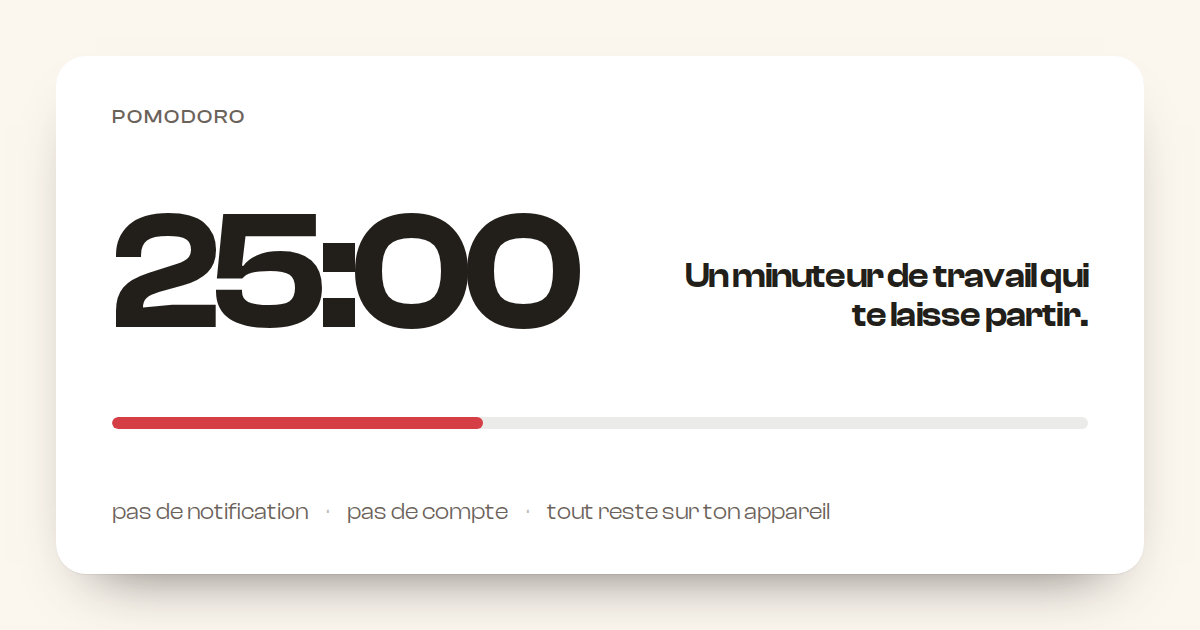
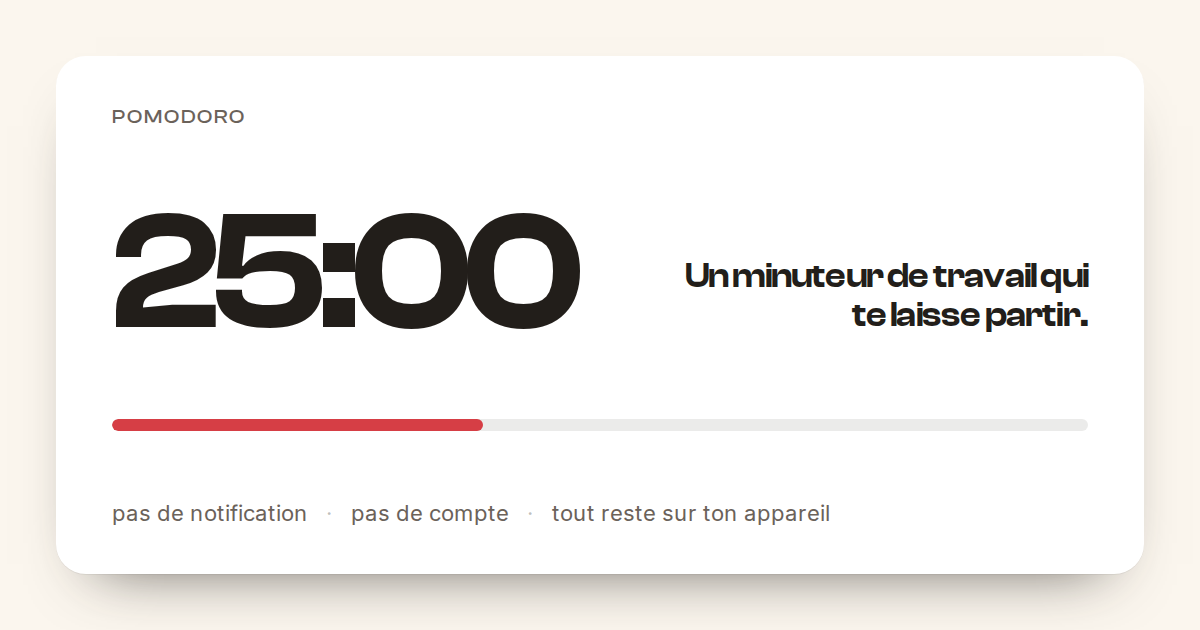
refactor(type): give the app a text face, and leave Clash the display work
Clash Display was doing every job: the clock, the titles, the paragraphs, the
13px hints. It is drawn for large sizes — tight spacing, closed apertures — and
below about 15px that costs legibility for nothing, which is most of what the
settings, the method page and the stats card are made of.

Two tokens now. `--font-display` (Clash) keeps the clock and its ghosts, the
screen titles, the intro lead, the wordmark and the labels on committing actions:
short strings, never under 14px, where the face is at its best. `--font-sans`
(Inter) takes everything read as a sentence or scanned as a list — body copy,
hints, list rows, stepper values, citations, and the stats card end to end, whose
two headings are sentences at 16–22px rather than display sizes. Quiet actions go
with the text: they are small and often a whole sentence.

Inter ships as one variable woff2, subset to the same characters as Clash plus the
≈, ✓ and arrows the copy uses, and to the 400–600 weights the interface asks for:
25 KB. Clash lost the 400 weight nothing calls for any more. Type payload 42 KB
across three files, up from 24 KB — the cost is stated in the README.

The link card follows the same split, and the legal page now names both licences.

Claude-Session: https://claude.ai/code/session_01WURgesoKEcLdKM51PxyYEe

Changed region(s): [[0.0925, 0.7841, 0.4317, 0.8444], [0.4625, 0.7841, 0.7092, 0.8444], [0.0925, 0.6635, 0.4008, 0.6937]]

diff --git a/src/styles/fonts.css b/src/styles/fonts.css
@@ -1,13 +1,6 @@
-@font-face {
-  font-family: 'Clash Display';
-  src: url('/fonts/clash-display-400.woff2') format('woff2');
-  font-weight: 400;
-  font-style: normal;
-  font-display: swap;
-  unicode-range:
-    U+0000-00FF, U+0131, U+0152-0153, U+02BB-02BC, U+02C6, U+02DA, U+02DC, U+2000-206F, U+2074,
-    U+20AC, U+2122, U+2191, U+2193, U+2212, U+2215, U+FEFF, U+FFFD;
-}
+/* Two voices. Clash Display is drawn for large sizes — it carries the clock, the
+   titles and the action labels. Inter is drawn for small ones and carries everything
+   that is read as a sentence or scanned as a list. */
 
 @font-face {
   font-family: 'Clash Display';
@@ -29,4 +22,14 @@
   unicode-range:
     U+0000-00FF, U+0131, U+0152-0153, U+02BB-02BC, U+02C6, U+02DA, U+02DC, U+2000-206F, U+2074,
     U+20AC, U+2122, U+2191, U+2193, U+2212, U+2215, U+FEFF, U+FFFD;
+}
+
+/* One file, weights 400 to 600: the only range the interface asks for. Subset to the
+   same characters as Clash, plus ≈, ✓ and the arrows the copy uses. */
+@font-face {
+  font-family: 'Inter Variable';
+  src: url('/fonts/inter-variable.woff2') format('woff2');
+  font-weight: 400 600;
+  font-style: normal;
+  font-display: swap;
 }

diff --git a/design/og-card.html b/design/og-card.html
@@ -16,9 +16,9 @@
         font-weight: 500;
       }
       @font-face {
-        font-family: 'Clash Display';
-        src: url('../public/fonts/clash-display-400.woff2') format('woff2');
-        font-weight: 400;
+        font-family: 'Inter Variable';
+        src: url('../public/fonts/inter-variable.woff2') format('woff2');
+        font-weight: 400 600;
       }
 
       * {
@@ -97,10 +97,12 @@
         background: #d63e45;
       }
 
+      /* Same split as the app: Clash for the clock and the line, Inter for the rest. */
       .foot {
         display: flex;
         gap: 18px;
-        font-size: 23px;
+        font-family: 'Inter Variable', sans-serif;
+        font-size: 22px;
         font-weight: 400;
         color: #6b625a;
       }

diff --git a/src/styles/tokens.css b/src/styles/tokens.css
@@ -18,8 +18,12 @@
 
   --shadow-card: 0 1px 0 rgba(34, 30, 26, 0.06), 0 14px 32px -26px rgba(34, 30, 26, 0.6);
 
-  --font-sans:
+  /* Display: titles, the clock, action labels. Sans: everything read or scanned.
+     Mono: the two chart captions and the hex field. */
+  --font-display:
     'Clash Display', -apple-system, BlinkMacSystemFont, 'Segoe UI', Helvetica, Arial, sans-serif;
+  --font-sans:
+    'Inter Variable', -apple-system, BlinkMacSystemFont, 'Segoe UI', Helvetica, Arial, sans-serif;
   --font-mono: ui-monospace, SFMono-Regular, Menlo, Consolas, monospace;
 
   --radius-card: 26px;

diff --git a/src/shared/i18n/locales/fr.ts b/src/shared/i18n/locales/fr.ts
@@ -159,7 +159,8 @@ export const fr: Messages = {
   'legal.data.body':
     'Les sessions sont stockées localement sur cet appareil. Aucune collecte, aucun traceur, aucun compte.',
   'legal.licences.title': 'Licences',
-  'legal.licences.body': 'Clash Display (Fontshare), sous licence Fontshare.',
+  'legal.licences.body':
+    'Clash Display (Fontshare), sous licence Fontshare. Inter (rsms.me/inter), sous licence SIL Open Font 1.1.',
 
   'a11y.openSettings': 'réglages',
   'a11y.back': 'retour',

diff --git a/src/shared/i18n/locales/en.ts b/src/shared/i18n/locales/en.ts
@@ -158,7 +158,8 @@ export const en: Messages = {
   'legal.data.body':
     'Sessions are stored locally on this device. No collection, no tracker, no account.',
   'legal.licences.title': 'Licences',
-  'legal.licences.body': 'Clash Display (Fontshare), under the Fontshare licence.',
+  'legal.licences.body':
+    'Clash Display (Fontshare), under the Fontshare licence. Inter (rsms.me/inter), under the SIL Open Font License 1.1.',
 
   'a11y.openSettings': 'settings',
   'a11y.back': 'back',

diff --git a/index.html b/index.html
@@ -46,6 +46,13 @@
       rel="preload"
       as="font"
       type="font/woff2"
+      href="/fonts/inter-variable.woff2"
+      crossorigin
+    />
+    <link
+      rel="preload"
+      as="font"
+      type="font/woff2"
       href="/fonts/clash-display-600.woff2"
       crossorigin
     />

diff --git a/src/features/onboarding/IntroScreen.module.css b/src/features/onboarding/IntroScreen.module.css
@@ -19,6 +19,7 @@
 }
 
 .name {
+  font-family: var(--font-display);
   font-size: var(--label-size);
   font-weight: 500;
   letter-spacing: var(--label-tracking);
@@ -27,6 +28,7 @@
 }
 
 .lead {
+  font-family: var(--font-display);
   font-size: 27px;
   font-weight: 600;
   line-height: 1.2;

diff --git a/src/features/timer/ClockScrubber.module.css b/src/features/timer/ClockScrubber.module.css
@@ -29,6 +29,7 @@
 }
 
 .digits {
+  font-family: var(--font-display);
   font-size: var(--digits-size);
   font-weight: 600;
   line-height: 1;
@@ -37,6 +38,7 @@
 }
 
 .ghost {
+  font-family: var(--font-display);
   min-height: 1em;
   font-size: var(--ghost-size);
   font-weight: 600;

diff --git a/src/shared/ui/Button.module.css b/src/shared/ui/Button.module.css
@@ -1,4 +1,5 @@
 .button {
+  font-family: var(--font-display);
   display: inline-flex;
   align-items: center;
   justify-content: center;
@@ -33,6 +34,7 @@
 }
 
 .quiet {
+  font-family: var(--font-sans);
   color: var(--muted);
   font-weight: 500;
 }

diff --git a/src/app/ShellHeader.module.css b/src/app/ShellHeader.module.css
@@ -12,6 +12,10 @@
     calc(var(--safe-left) + 56px);
 }
 
+.appName {
+  font-family: var(--font-display);
+}
+
 .topBar .appName {
   font-size: 18px;
   font-weight: 600;

diff --git a/src/features/settings/SettingsScreen.module.css b/src/features/settings/SettingsScreen.module.css
@@ -21,6 +21,7 @@
 }
 
 .heading {
+  font-family: var(--font-display);
   font-size: 26px;
   font-weight: 600;
   letter-spacing: -0.5px;

diff --git a/src/features/timer/TimerScreen.module.css b/src/features/timer/TimerScreen.module.css
@@ -27,6 +27,7 @@
 }
 
 .heading {
+  font-family: var(--font-display);
   font-size: 25px;
   font-weight: 600;
   letter-spacing: -0.5px;
